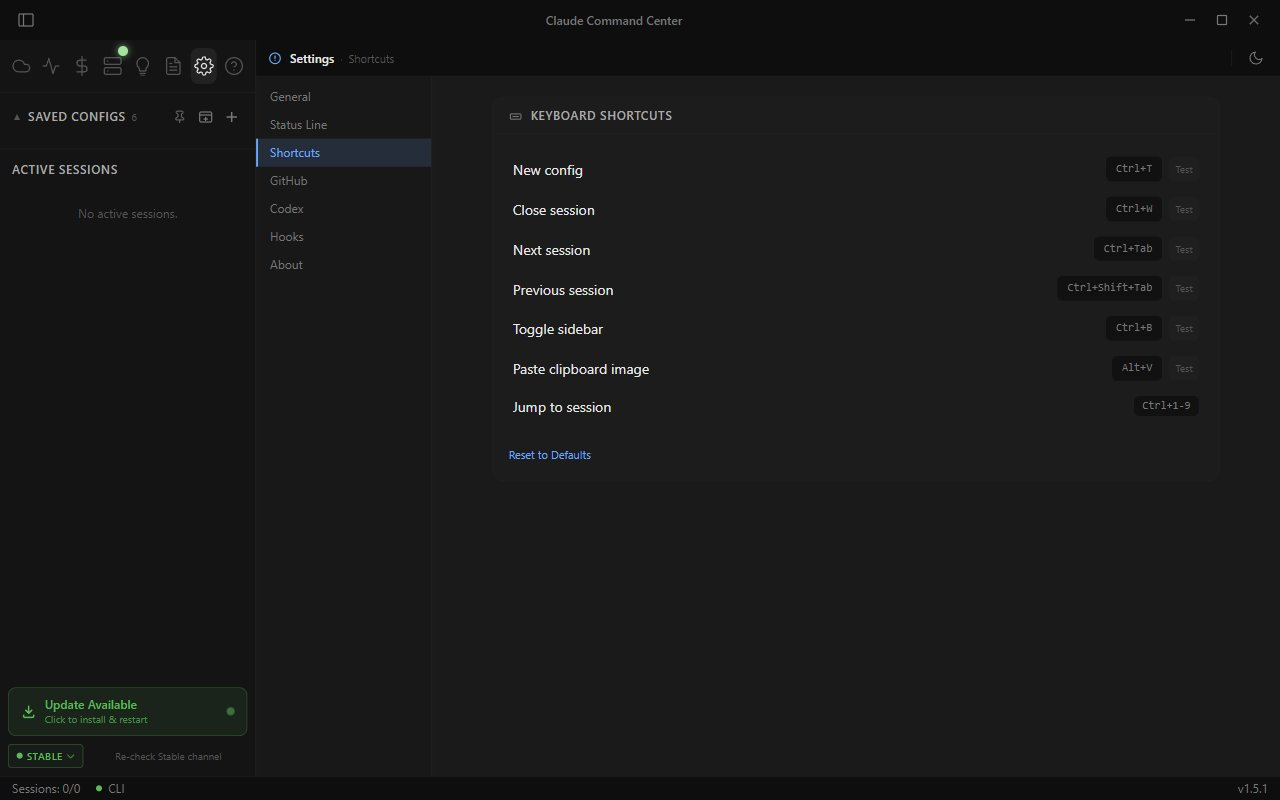
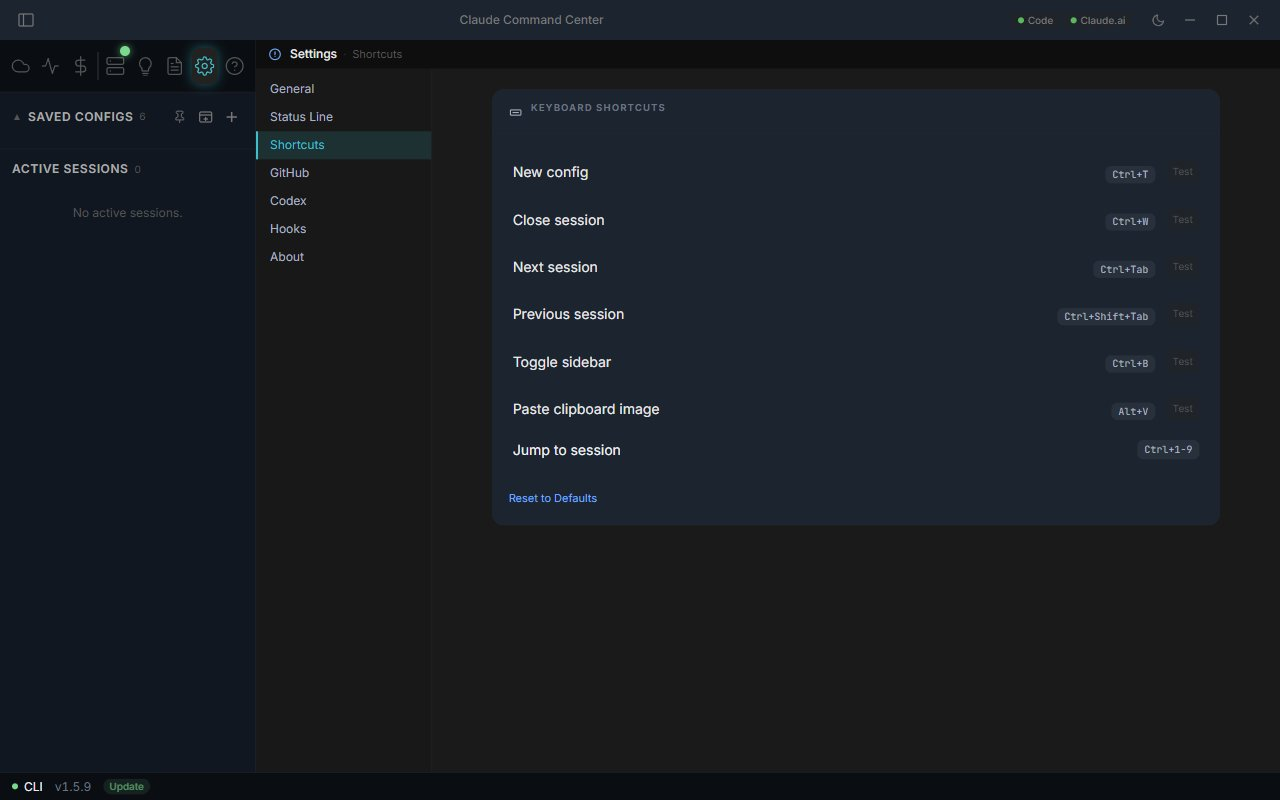
chore(capture): hide insights/codex during capture + V2 screenshots
- capture-training: pre-existence guards on hide-renames, hide
  ~/.codex/sessions/, hide <RESOURCES>/insights/, best-effort
  hide of <DATA>/logs/ (EPERM-tolerant under live CCC).
- seed: settings dismisses colourMigrationNotice; tokenomics
  marked seedComplete so sync short-circuits on real Codex history.
- screenshots: V2 styling captured for sessions, agents, memory,
  insights (empty state), settings, shortcuts, snap, combined,
  excalidraw, github-panel. Tokenomics + Logs known to leak
  while live CCC is open; recapture standalone if needed.

diff --git a/scripts/capture-training-screenshots.ts b/scripts/capture-training-screenshots.ts
@@ -41,27 +41,55 @@ function redactAccountInStatusline(sl: any) {
 
 // ── Config directory resolution ──
 
-function getConfigDir(): string {
-  if (process.platform === 'win32') {
-    for (const key of ['Software\\Claude Command Center', 'Software\\Claude Conductor']) {
-      try {
-        const result = execSync(`reg query "HKCU\\${key}" /v ResourcesDirectory`, { encoding: 'utf-8', timeout: 5000, windowsHide: true })
-        const match = result.match(/ResourcesDirectory\s+REG_SZ\s+(.+)/)
-        if (match) return path.join(match[1].trim(), 'CONFIG')
-      } catch { /* try next */ }
-    }
-    return path.join(process.env.LOCALAPPDATA || path.join(os.homedir(), 'AppData', 'Local'), 'Claude Conductor', 'CONFIG')
-  } else {
-    const fallbackFile = path.join(os.homedir(), '.claude-conductor', 'platform-config.json')
+function readRegistryValue(name: 'ResourcesDirectory' | 'DataDirectory'): string | null {
+  if (process.platform !== 'win32') return null
+  for (const key of ['Software\\Claude Command Center', 'Software\\Claude Conductor']) {
     try {
-      if (fs.existsSync(fallbackFile)) {
-        const config = JSON.parse(fs.readFileSync(fallbackFile, 'utf-8'))
-        if (config.ResourcesDirectory) return path.join(config.ResourcesDirectory, 'CONFIG')
-        if (config.DataDirectory) return path.join(config.DataDirectory, 'CONFIG')
-      }
-    } catch {}
-    return path.join(os.homedir(), 'Library', 'Application Support', 'Claude Conductor', 'CONFIG')
+      const result = execSync(`reg query "HKCU\\${key}" /v ${name}`, { encoding: 'utf-8', timeout: 5000, windowsHide: true })
+      const match = result.match(new RegExp(`${name}\\s+REG_SZ\\s+(.+)`))
+      if (match) return match[1].trim()
+    } catch { /* try next */ }
   }
+  return null
+}
+
+function getResourcesDir(): string {
+  const fromReg = readRegistryValue('ResourcesDirectory')
+  if (fromReg) return fromReg
+  if (process.platform === 'win32') {
+    return path.join(process.env.LOCALAPPDATA || path.join(os.homedir(), 'AppData', 'Local'), 'Claude Conductor')
+  }
+  const fallbackFile = path.join(os.homedir(), '.claude-conductor', 'platform-config.json')
+  try {
+    if (fs.existsSync(fallbackFile)) {
+      const config = JSON.parse(fs.readFileSync(fallbackFile, 'utf-8'))
+      if (config.ResourcesDirectory) return config.ResourcesDirectory
+      if (config.DataDirectory) return config.DataDirectory
+    }
+  } catch {}
+  return path.join(os.homedir(), 'Library', 'Application Support', 'Claude Conductor')
+}
+
+function getDataDir(): string {
+  const fromReg = readRegistryValue('DataDirectory')
+  if (fromReg) return fromReg
+  // Defaults match getDefaultDataDir() in src/main/ipc/setup-handlers.ts
+  if (process.platform === 'win32') {
+    return path.join(process.env.LOCALAPPDATA || path.join(os.homedir(), 'AppData', 'Local'), 'Claude Conductor')
+  }
+  const fallbackFile = path.join(os.homedir(), '.claude-conductor', 'platform-config.json')
+  try {
+    if (fs.existsSync(fallbackFile)) {
+      const config = JSON.parse(fs.readFileSync(fallbackFile, 'utf-8'))
+      if (config.DataDirectory) return config.DataDirectory
+      if (config.ResourcesDirectory) return config.ResourcesDirectory
+    }
+  } catch {}
+  return path.join(os.homedir(), 'Library', 'Application Support', 'Claude Conductor')
+}
+
+function getConfigDir(): string {
+  return path.join(getResourcesDir(), 'CONFIG')
 }
 
 // ── Sample data ──
@@ -188,6 +216,9 @@ interface BackupInfo {
   createdDemoFiles: string[]   // orig didn't exist; we wrote demo data; safe to delete
   createdMemoryDirs: string[]
   projectsRenamed: boolean
+  codexSessionsRenamed: boolean
+  insightsRenamed: boolean
+  logsRenamed: boolean
   lockPath: string
 }
 
@@ -266,6 +297,9 @@ function seedSampleData(): BackupInfo {
     createdDemoFiles: [],
     createdMemoryDirs: [],
     projectsRenamed: false,
+    codexSessionsRenamed: false,
+    insightsRenamed: false,
+    logsRenamed: false,
     lockPath,
   }
 
@@ -286,6 +320,12 @@ function seedSampleData(): BackupInfo {
       return [d, { date: d, totalCostUsd: costs[i], totalTokens: tokens[i], messageCount: sessions[i] * 15, sessionCount: sessions[i], totalDurationMs: 0, avgCostPerHour: 0, byModel: {} }]
     })),
     lastSeeded: now,
+    // Mark seed complete + recent lastSync so seedTokenomics/syncTokenomics
+    // skip the project-folder scan that would otherwise pull in real
+    // Claude/Codex history (and overwrite tokenomics.json with 15+MB of it).
+    seedComplete: true,
+    lastSyncTimestamp: now,
+    totalCostUsd: 4.46,
   }
 
   // P8.18: scrub any account identity baked into the seeded sessions before
@@ -299,7 +339,7 @@ function seedSampleData(): BackupInfo {
     'configs.json': SAMPLE_CONFIGS,
     'commands.json': SAMPLE_COMMANDS,
     'command-sections.json': SAMPLE_SECTIONS,
-    'settings.json': { localMachineName: process.platform === 'darwin' ? 'Mac Mini' : 'Dev Workstation', terminalFontSize: 14, updateChannel: 'stable' },
+    'settings.json': { localMachineName: process.platform === 'darwin' ? 'Mac Mini' : 'Dev Workstation', terminalFontSize: 14, updateChannel: 'stable', colourMigrationNoticeDismissed: true, colourMigrationNoticePending: false },
     'app-meta.json': { setupVersion: '99.99.99', lastTrainingVersion: '99.99.99', lastWhatsNewVersion: '99.99.99', lastSeenVersion: '99.99.99' },
     'cloud-agents.json': SAMPLE_CLOUD_AGENTS,
     'tokenomics.json': sampleTokenomics,
@@ -322,14 +362,83 @@ function seedSampleData(): BackupInfo {
 
   // Temporarily hide real projects so only demo ones appear in screenshots.
   // Rename ~/.claude/projects/ → ~/.claude/projects-real-bak/ during capture.
+  // Fail loudly if a leftover backup exists -- silently continuing would let
+  // real session data leak into screenshots (and confuse the cleanup step).
   const projectsDir = path.join(os.homedir(), '.claude', 'projects')
   const projectsBackup = projectsDir + '-real-bak'
+  if (fs.existsSync(projectsBackup)) {
+    throw new Error(
+      `[capture] Refusing to start: ${projectsBackup} already exists from a prior crashed capture. ` +
+      `Move its contents back into ${projectsDir} (or delete it if you don't need them) before re-running.`
+    )
+  }
   if (fs.existsSync(projectsDir)) {
     fs.renameSync(projectsDir, projectsBackup)
     activeBackupInfo.projectsRenamed = true
     console.log('[capture] Hid real projects directory')
   }
   fs.mkdirSync(projectsDir, { recursive: true })
+
+  // Same treatment for Codex history -- seedTokenomics scans ~/.codex/sessions/
+  // and would otherwise pull all real Codex transcripts into screenshots.
+  const codexSessionsDir = path.join(os.homedir(), '.codex', 'sessions')
+  const codexSessionsBackup = codexSessionsDir + '-real-bak'
+  if (fs.existsSync(codexSessionsBackup)) {
+    throw new Error(
+      `[capture] Refusing to start: ${codexSessionsBackup} already exists from a prior crashed capture. ` +
+      `Move its contents back into ${codexSessionsDir} (or delete it if you don't need them) before re-running.`
+    )
+  }
+  if (fs.existsSync(codexSessionsDir)) {
+    fs.renameSync(codexSessionsDir, codexSessionsBackup)
+    activeBackupInfo.codexSessionsRenamed = true
+    console.log('[capture] Hid real Codex sessions directory')
+  }
+
+  // Insights reports live at <RESOURCES>/insights/ as one dir per run -- the
+  // Insights page renders the latest report. Without hiding, real KPIs and
+  // project names from the user's history leak into screenshots.
+  const insightsDir = path.join(getResourcesDir(), 'insights')
+  const insightsBackup = insightsDir + '-real-bak'
+  if (fs.existsSync(insightsBackup)) {
+    throw new Error(
+      `[capture] Refusing to start: ${insightsBackup} already exists from a prior crashed capture. ` +
+      `Move its contents back into ${insightsDir} (or delete it if you don't need them) before re-running.`
+    )
+  }
+  if (fs.existsSync(insightsDir)) {
+    fs.renameSync(insightsDir, insightsBackup)
+    activeBackupInfo.insightsRenamed = true
+    console.log('[capture] Hid real Insights directory')
+  }
+
+  // Session logs live at <DATA>/logs/<configLabel>/<sessionId>/ -- the Logs
+  // page renders the configLabel folders, leaking real session names.
+  const logsDir = path.join(getDataDir(), 'logs')
+  const logsBackup = logsDir + '-real-bak'
+  if (fs.existsSync(logsBackup)) {
+    throw new Error(
+      `[capture] Refusing to start: ${logsBackup} already exists from a prior crashed capture. ` +
+      `Move its contents back into ${logsDir} (or delete it if you don't need them) before re-running.`
+    )
+  }
+  if (fs.existsSync(logsDir)) {
+    // Best-effort: if the live CCC instance has open handles in logs/ (it
+    // streams session logs continuously), the rename will EPERM on Windows.
+    // We don't want that to abort the whole capture -- accept the leak,
+    // record nothing renamed, and proceed.
+    try {
+      fs.renameSync(logsDir, logsBackup)
+      activeBackupInfo.logsRenamed = true
+      console.log('[capture] Hid real session logs directory')
+    } catch (err: any) {
+      if (err && err.code === 'EPERM') {
+        console.warn('[capture] Could not hide session logs directory (live CCC holding handles). Logs page screenshot may show real session names.')
+      } else {
+        throw err
+      }
+    }
+  }
 
   for (const project of SAMPLE_MEMORY_PROJECTS) {
     const memoryDir = path.join(projectsDir, project.projectDir, 'memory')
@@ -410,6 +519,60 @@ function cleanupSampleData(info: BackupInfo | null): void {
     // We only created demo projects (no real ones to restore) — clean those up
     for (const dir of info.createdMemoryDirs) {
       try { fs.rmSync(dir, { recursive: true, force: true }) } catch {}
+    }
+  }
+
+  // Restore real Codex sessions directory
+  if (info.codexSessionsRenamed) {
+    const codexSessionsDir = path.join(os.homedir(), '.codex', 'sessions')
+    const codexSessionsBackup = codexSessionsDir + '-real-bak'
+    try {
+      if (!fs.existsSync(codexSessionsBackup)) {
+        console.warn('[capture] codex sessions-real-bak missing; skipping restore to protect real data')
+      } else {
+        if (fs.existsSync(codexSessionsDir)) fs.rmSync(codexSessionsDir, { recursive: true, force: true })
+        fs.renameSync(codexSessionsBackup, codexSessionsDir)
+        console.log('[capture] Restored real Codex sessions directory')
+      }
+    } catch (err) {
+      console.error('[capture] WARNING: Failed to restore Codex sessions directory!', err)
+      console.error(`[capture] Your real Codex sessions are at: ${codexSessionsBackup}`)
+    }
+  }
+
+  // Restore real Insights directory
+  if (info.insightsRenamed) {
+    const insightsDir = path.join(getResourcesDir(), 'insights')
+    const insightsBackup = insightsDir + '-real-bak'
+    try {
+      if (!fs.existsSync(insightsBackup)) {
+        console.warn('[capture] insights-real-bak missing; skipping restore to protect real data')
+      } else {
+        if (fs.existsSync(insightsDir)) fs.rmSync(insightsDir, { recursive: true, force: true })
+        fs.renameSync(insightsBackup, insightsDir)
+        console.log('[capture] Restored real Insights directory')
+      }
+    } catch (err) {
+      console.error('[capture] WARNING: Failed to restore Insights directory!', err)
+      console.error(`[capture] Your real Insights are at: ${insightsBackup}`)
+    }
+  }
+
+  // Restore real session logs directory
+  if (info.logsRenamed) {
+    const logsDir = path.join(getDataDir(), 'logs')
+    const logsBackup = logsDir + '-real-bak'
+    try {
+      if (!fs.existsSync(logsBackup)) {
+        console.warn('[capture] logs-real-bak missing; skipping restore to protect real data')
+      } else {
+        if (fs.existsSync(logsDir)) fs.rmSync(logsDir, { recursive: true, force: true })
+        fs.renameSync(logsBackup, logsDir)
+        console.log('[capture] Restored real session logs directory')
+      }
+    } catch (err) {
+      console.error('[capture] WARNING: Failed to restore logs directory!', err)
+      console.error(`[capture] Your real logs are at: ${logsBackup}`)
     }
   }
 
